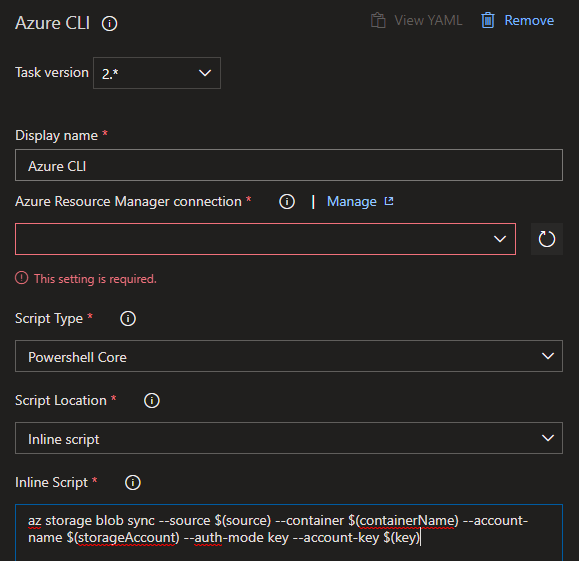
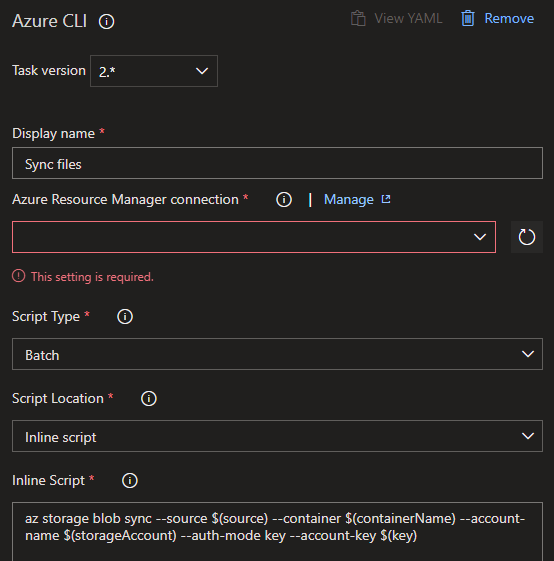
Update tasks

diff --git a/_drafts/2020-10-25-creating-my-static-blog-site.md b/_drafts/2020-10-25-creating-my-static-blog-site.md
@@ -240,7 +240,7 @@ Add an `Azure CLI` task.
  Configure the task:
  - Update **Display name** to **Sync files**
  - Set **Azure Resource Manager connection**
- - Set **Script Type** to **Powershell Core**
+ - Set **Script Type** to **Batch**
  - Set **Script Location** to **Inline script**.
  - Set the **Inline Script** to the following:
 
@@ -257,7 +257,7 @@ Add another `Azure CLI` task.
  Configure the task:
  - Update **Display name** to **Purge CDN**
  - Set **Azure Resource Manager connection**
- - Set **Script Type** to **Powershell Core**
+ - Set **Script Type** to **Batch**
  - Set **Script Location** to **Inline script**.
  - Set the **Inline Script** to the following:
 
